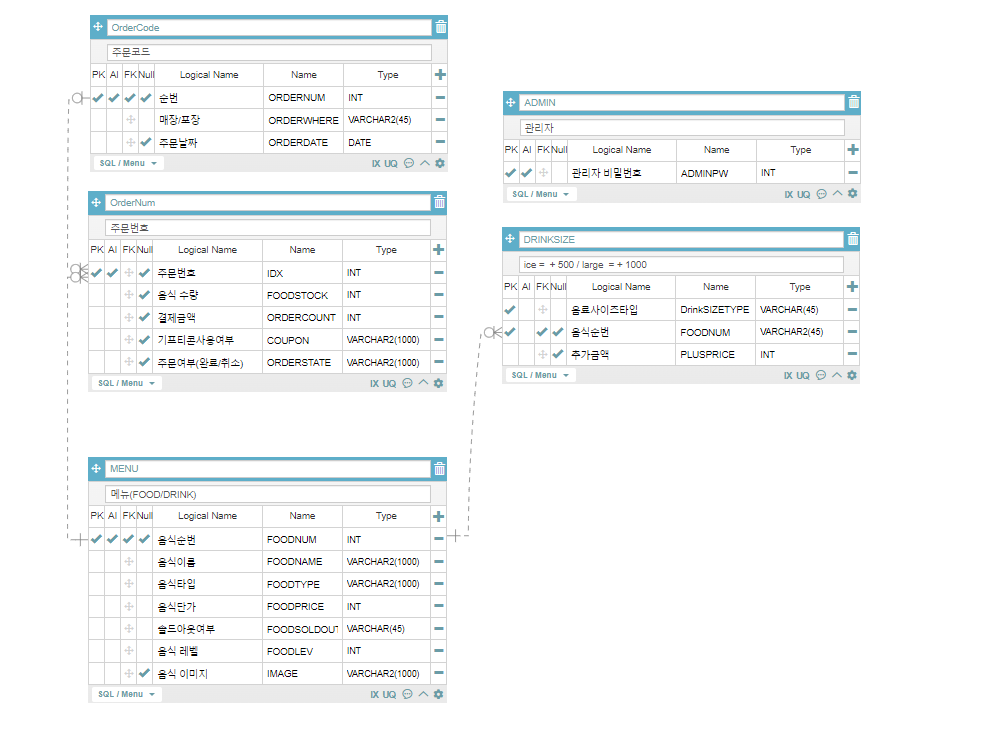
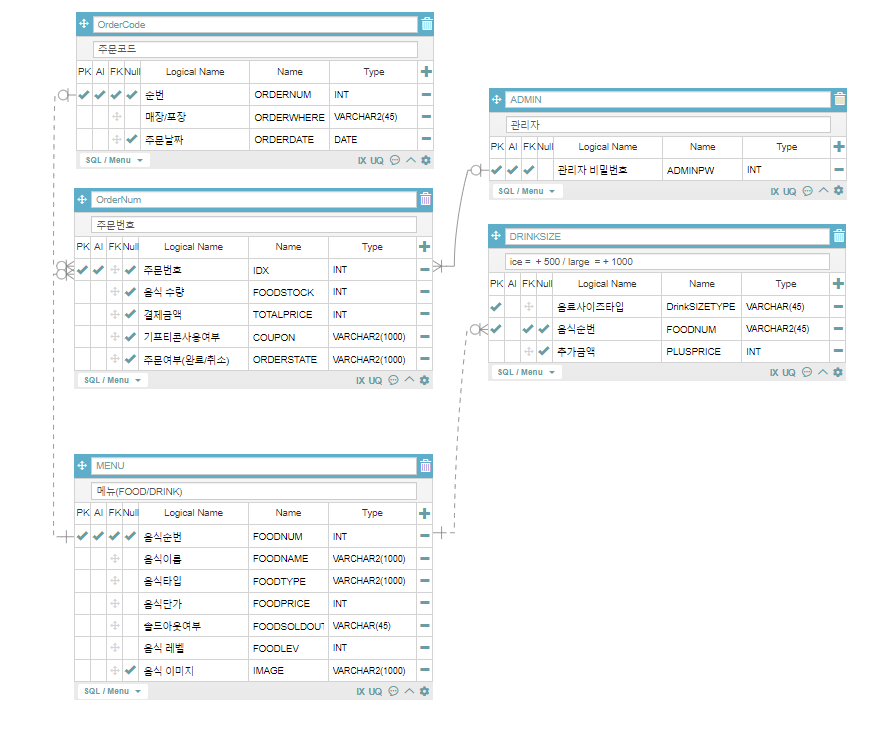
sql/admin update

Changed region(s): [[0.0609, 0.0, 0.9752, 0.5291], [0.0609, 0.5913, 0.4876, 0.9648], [0.9447, 0.1867, 0.9752, 0.2179]]

diff --git a/Cafe_Kiosk/src/main/java/kr/hizju/cafekiosk/controller/AdminController.java b/Cafe_Kiosk/src/main/java/kr/hizju/cafekiosk/controller/AdminController.java
@@ -9,7 +9,6 @@ import org.springframework.web.bind.annotation.ModelAttribute;
 import org.springframework.web.bind.annotation.PostMapping;
 import org.springframework.web.bind.annotation.PutMapping;
 import org.springframework.web.bind.annotation.RequestParam;
-import org.springframework.web.bind.annotation.ResponseBody;
 import org.springframework.web.bind.annotation.RestController;
 import org.springframework.web.servlet.ModelAndView;
 
@@ -43,7 +42,9 @@ public class AdminController {
 		return mav;
 	}
 	
-	// url을 다르게 지정하여 페이지를 이동할건지? 여부 확인 후 입력
+	/* url을 다르게 지정하여 페이지를 이동할건지? 여부 확인 후 입력
+	   프론트에서 if문 써서 로그인 성공시 메뉴 저장
+	*/
 	
 	// 관리자 메뉴 저장
 	@PostMapping("/admin/insertmenu") // post : 입력
@@ -53,7 +54,6 @@ public class AdminController {
 		return "Admin";
 	}
 	// 관리자 메뉴 수정
-	@ResponseBody
 	@PutMapping("/updatemenu") // put : 수정
 	public String update(@ModelAttribute MenuVO menuVO) {
 		log.info("수정값 : {}", menuVO);
@@ -62,7 +62,6 @@ public class AdminController {
 		return "Admin";
 	}
 	// 관리자 메뉴 삭제
-	@ResponseBody
 	@DeleteMapping("/deletemenu") // delete : 삭제
 	public String delete(@RequestParam String foodnum) {
 		log.info("삭제값 : {}", foodnum);

diff --git a/Cafe_Kiosk/src/main/java/kr/hizju/cafekiosk/vo/OrderNumVO.java b/Cafe_Kiosk/src/main/java/kr/hizju/cafekiosk/vo/OrderNumVO.java
@@ -13,7 +13,7 @@ import lombok.NoArgsConstructor;
 public class OrderNumVO {
 	private int idx; // 영수증 번호(pk)
 	private int foodstock; // 메뉴 개수
-	private int ordercount; // 총 결제 금액
+	private int totalprice; // 총 결제 금액
 	private int ordernum; // 주문번호(fk)
 	private int foodnum; // 메뉴 id(fk)
 	
@@ -22,7 +22,7 @@ public class OrderNumVO {
 	private Date orderdate; // 주문 날짜
 	private String coupon; // 쿠폰 사용여부
 	
-	// 메뉴
+	// 메뉴(db로부터 꺼내올 값)
 	private String foodname;
 	private String foodtype;
 	private int foodprice;
